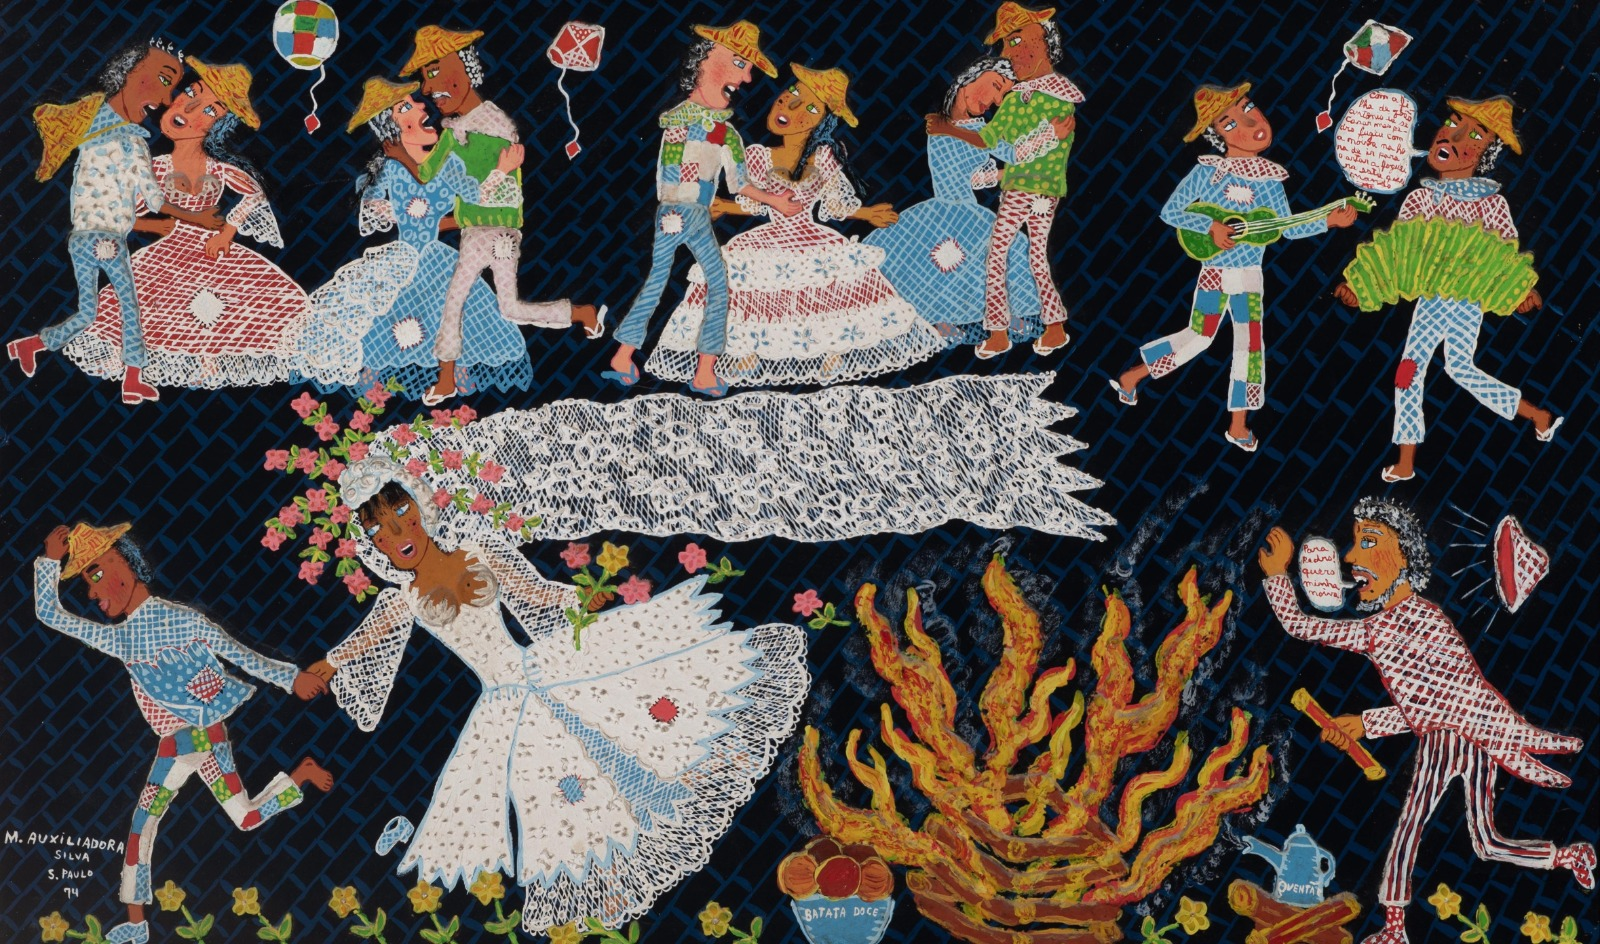
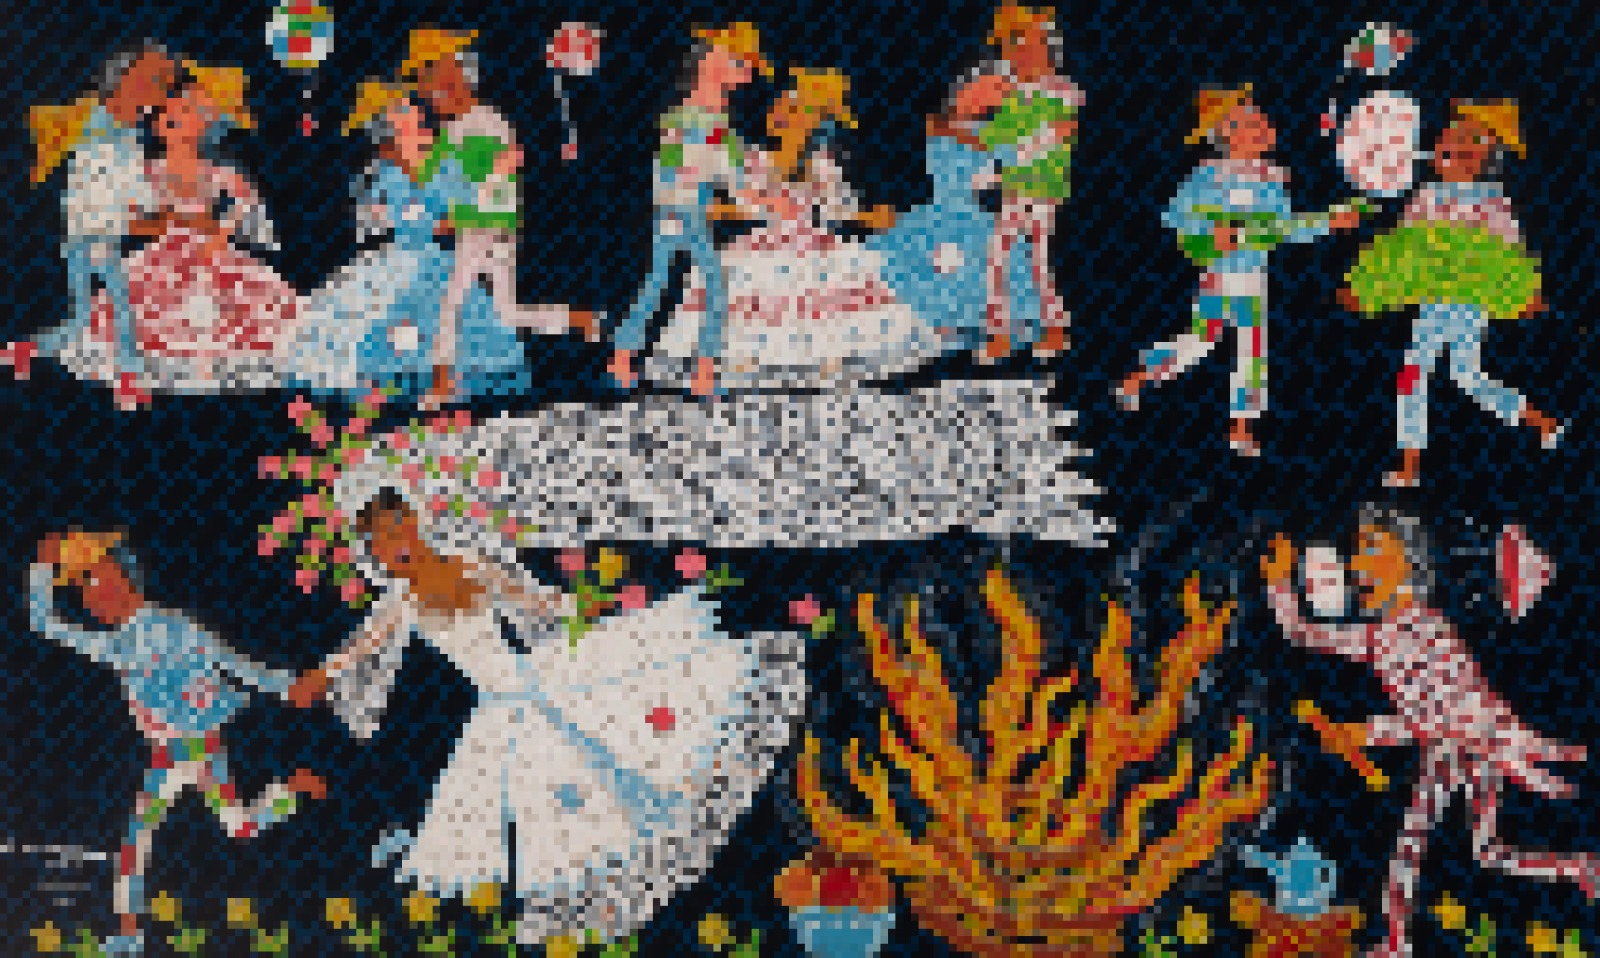
arrumar fase 1

diff --git a/src/scenes/basePhase.js b/src/scenes/basePhase.js
@@ -37,7 +37,7 @@ export default class BasePhase extends Phaser.Scene {
             this.createBackgroundComplete();
             
             // Adiciona o placar
-            this.scoreboard = this.add.text(this.width/2, this.height/200, this.score + '/' + this.maxScore, {fontFamily:'Futura', fontSize:'45px', fill:'#FFFFFF'})
+            this.scoreboard = this.add.text(this.width/1000, this.height/2, this.score + '/' + this.maxScore, {fontFamily:'Futura', fontSize:'40px', fill:'#FFFFFF'})
 
             // Adiciona o temporizador
             this.createTimer();
@@ -63,7 +63,7 @@ export default class BasePhase extends Phaser.Scene {
         this.timerEvent = null;
         this.elapsedSeconds = 0;
         
-        this.timerText = this.add.text(this.width/1.05, this.height/200, '0', { fontFamily:'Futura',fontSize: '45px', fill: '#fff' });
+        this.timerText = this.add.text(this.width/300, this.height/1.15, '0', { fontFamily:'Futura',fontSize: '40px', fill: '#FFFFFF' });
 
         // Crie o evento do temporizador e guarde a referência
         this.timerEvent = this.time.addEvent({
@@ -88,9 +88,9 @@ export default class BasePhase extends Phaser.Scene {
 
     createBackgroundComplete() {
         // Adiciona máscara branca, quadro e a borda
-        this.bg = this.add.image(this.width / 2, this.height / 2, 'bgWhite').setDisplaySize(this.width, this.width / 1.8);
-        this.painting = this.add.image(this.width / 2, this.height / 2, this.backgroundKey).setDisplaySize(this.width, this.width / 1.8);
-        this.frame = this.add.image(this.width / 2, this.height / 2, 'frame').setDisplaySize(this.width, this.width/2.3);
+        this.bg = this.add.image(this.width / 2, this.height / 2, 'bgWhite').setDisplaySize(this.width, this.width/1.4);
+        this.painting = this.add.image(this.width / 2, this.height / 2, this.backgroundKey).setDisplaySize(this.width/1.065, (this.width / 1.77)/1.03);
+        this.frame = this.add.image(this.width / 2, this.height / 2, 'frame2').setDisplaySize(this.width, this.height);
         this.frameHitbox = this.frame.displayWidth / 35;
 
         // Torna o quadro visível

diff --git a/src/scenes/splashScreen.js b/src/scenes/splashScreen.js
@@ -29,6 +29,7 @@ export default class SplashScreen extends Phaser.Scene {
         this.load.image('bgTutorial', './assets/larger_tiled_background.jpg');
         this.load.image('textBox', './assets/textBox.png');
         this.load.image('frame', './assets/frame.png');
+        this.load.image('frame2', './assets/frame2.png');
         this.load.image('bgMenu', './assets/expanded_startscreen.png');
         this.load.image('startButton', './assets/botões/botao_start_preto.png');
         this.load.image('skipTutorialButton', './assets/botões/botao_pular.png');
@@ -69,7 +70,7 @@ export default class SplashScreen extends Phaser.Scene {
             // Aguarda o fadeOut antes de iniciar a próxima cena
             this.time.delayedCall(time1500, () => {
                 this.scene.stop('SplashScreen'); // Para a cena atual
-                this.scene.start('Menu'); // Inicia a cena Menu
+                this.scene.start('Phase1'); // Inicia a cena Menu
             }); 
         });          
     }

diff --git a/src/scenes/phase1.js b/src/scenes/phase1.js
@@ -9,7 +9,7 @@ export default class Phase1 extends BasePhase {
         
 
         // Configura a chave de classe
-        super('Phase1', true, 'painting', 'pigeon', 'flyPigeon', 'pigeonSound', 'artist3', textArtist, textPainting)
+        super('Phase1', true, 'painting2', 'pigeon', 'flyPigeon', 'pigeonSound', 'artist3', textArtist, textPainting)
     }
 
     create(){
